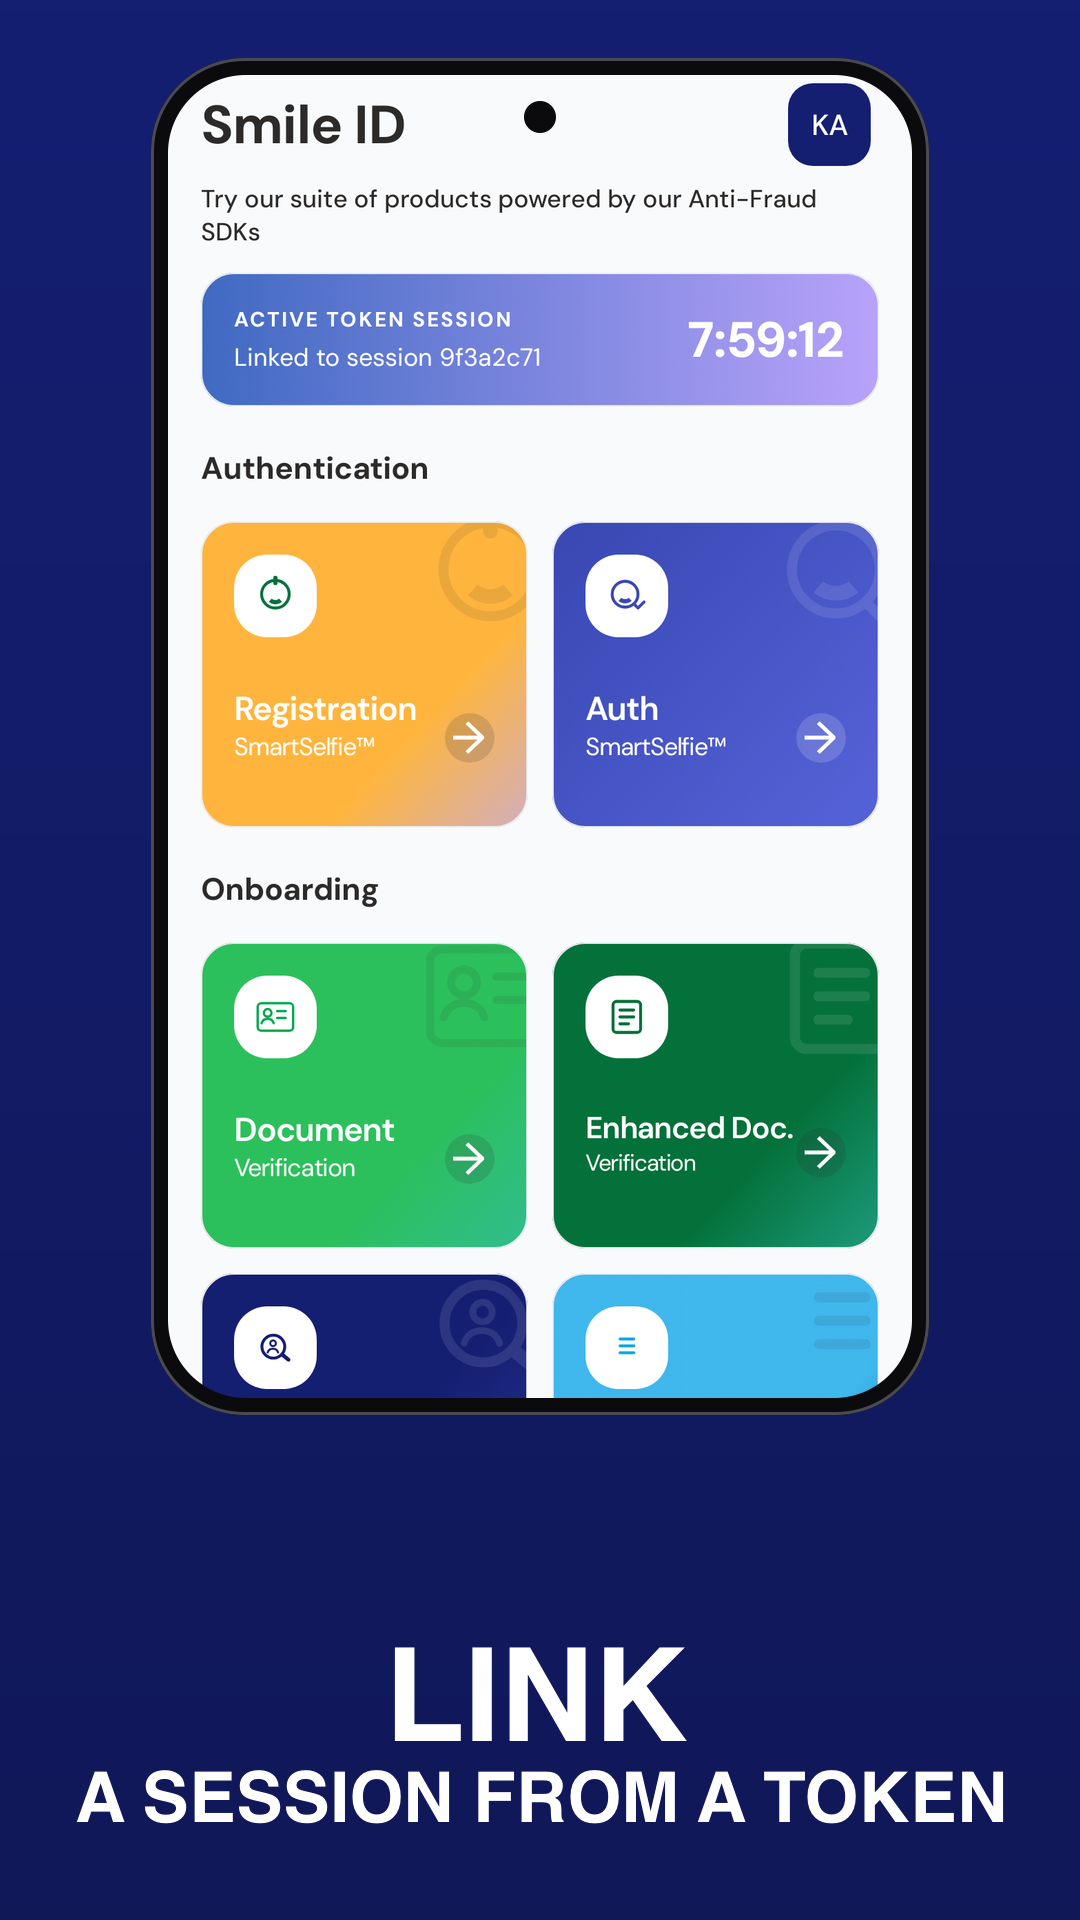
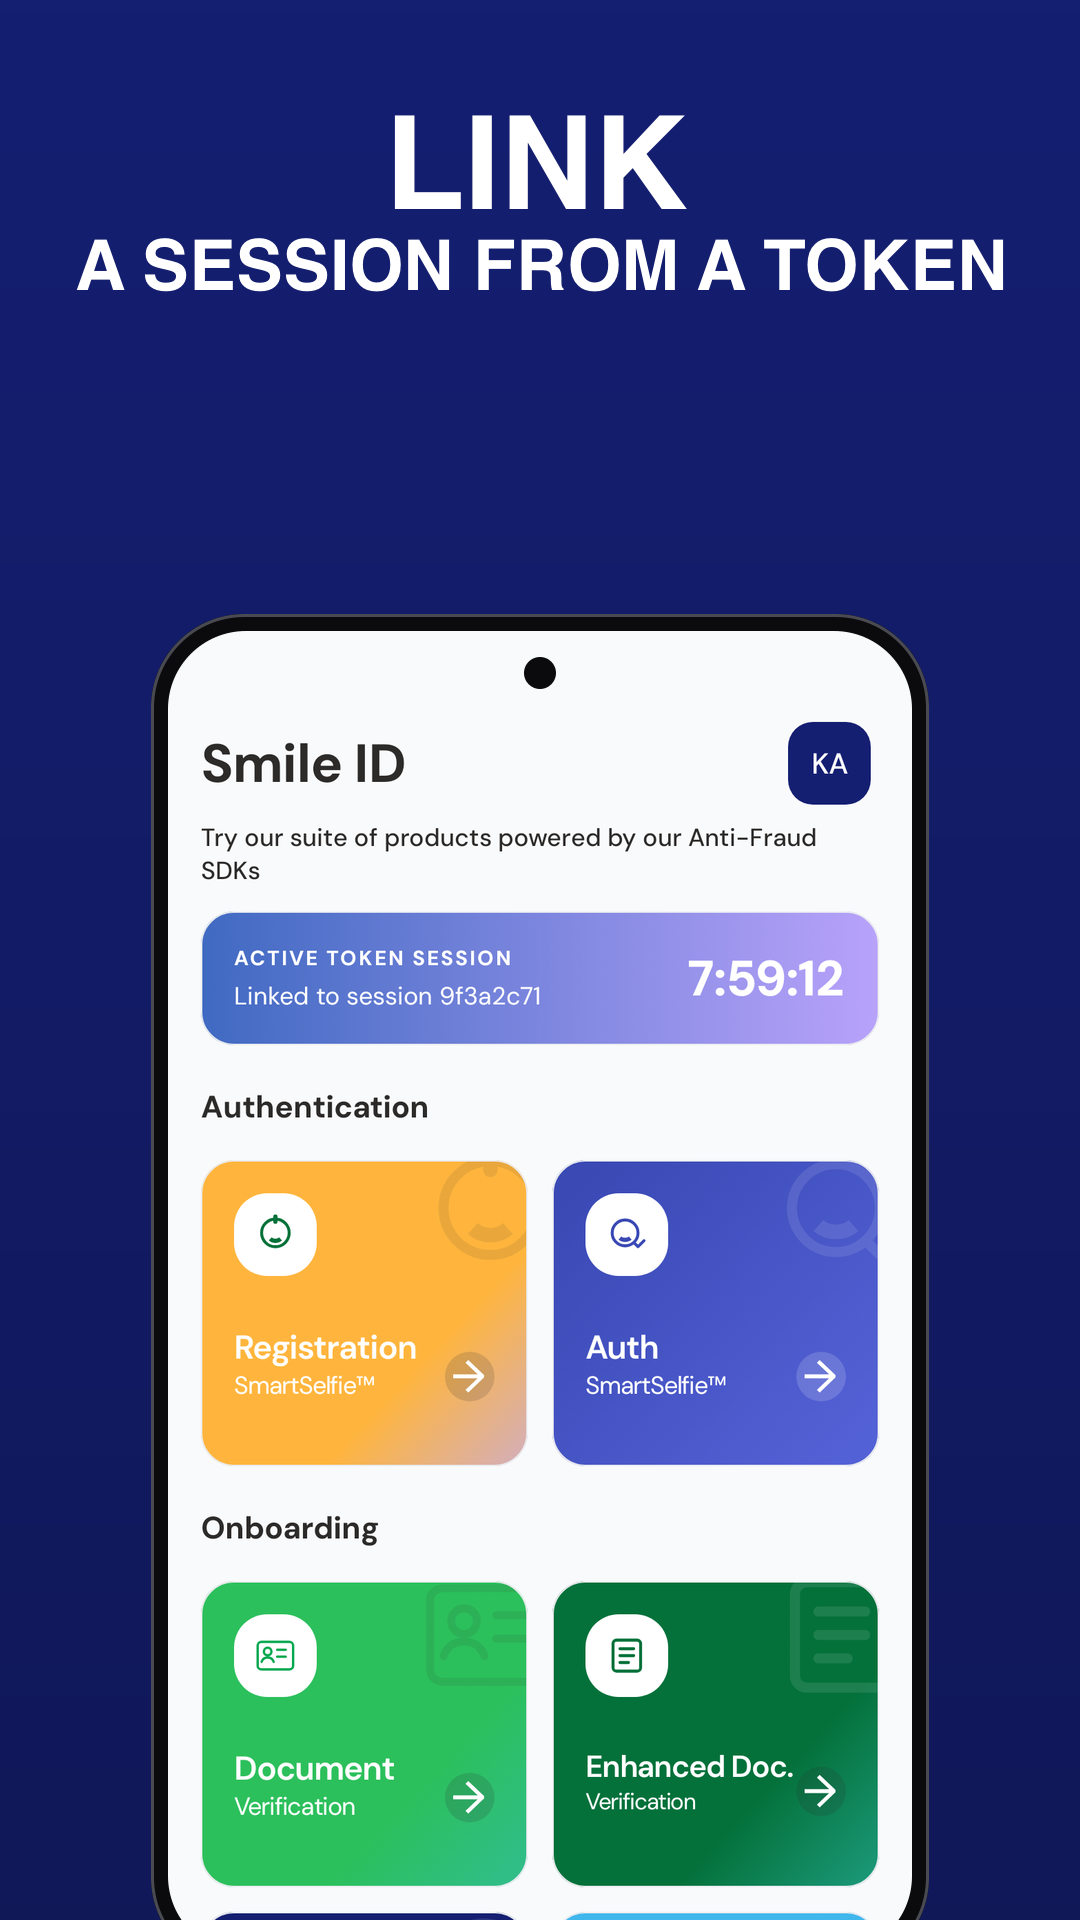
fix: clear the device cutout and give every store panel the same frame

diff --git a/android/sample-ui/src/test/kotlin/com/usesmileid/sampleapps/ui/storeart/StoreArtTest.kt b/android/sample-ui/src/test/kotlin/com/usesmileid/sampleapps/ui/storeart/StoreArtTest.kt
@@ -3,9 +3,11 @@ package com.usesmileid.sampleapps.ui.storeart
 import androidx.compose.foundation.background
 import androidx.compose.foundation.layout.Box
 import androidx.compose.foundation.layout.fillMaxSize
+import androidx.compose.foundation.layout.padding
 import androidx.compose.runtime.Composable
 import androidx.compose.ui.Modifier
 import androidx.compose.ui.platform.testTag
+import androidx.compose.ui.unit.dp
 import androidx.compose.ui.test.ExperimentalTestApi
 import androidx.compose.ui.test.onNodeWithTag
 import androidx.compose.ui.test.v2.runComposeUiTest
@@ -109,7 +111,8 @@ class StoreArtTest {
                     modifier = Modifier
                         .testTag(PANEL)
                         .fillMaxSize()
-                        .background(UseSmileIDSampleTheme.colors.background),
+                        .background(UseSmileIDSampleTheme.colors.background)
+                        .padding(top = STATUS_BAR_INSET),
                 ) {
                     content()
                 }
@@ -125,6 +128,9 @@ class StoreArtTest {
         const val FIXED_NOW = 1_784_202_612_000L
         val JOBS = UseSmileIDSampleJobStore.fixtures(FIXED_NOW)
         val PRODUCTS = UseSmileIDSampleProductsState(initials = "KA")
+
+        /** The device frame's punch-hole ends 32dp down and its corners eat 20dp; content clears both. */
+        val STATUS_BAR_INSET = 40.dp
     }
 }
 

diff --git a/docs/plan/play-release-android.md b/docs/plan/play-release-android.md
@@ -120,27 +120,6 @@ to confirm it is on the right screen *before* capturing, which is the contract b
 decide *which* states photograph well is exploration, and its screenshots must never become the
 committed artefact. That is the same boundary the device-verify guidance already draws.
 
-### 2.6 What building the pipeline changed
-
-Three corrections, all found by running it rather than by reading:
-
-- **Gradle Managed Devices cannot host the camera capture.** GMD starts and stops its emulator around a
-  Gradle *test task*, and Maestro is not one, so a GMD block would declare an image nothing uses. The
-  image is pinned in the flow's header instead — a Pixel-class AVD on API 34, at 1080x1920 so the frame
-  needs no rescaling next to the five rendered panels.
-- **The capture flow lives in `android/maestro/store/`, not beside the suite.** Folder runs are
-  non-recursive, which is how `subflows/` stays out of the suite; a top-level `store-shots.yaml` would
-  have joined every per-PR device run, needing a camera and writing a file on each one.
-- **The capture screen still has no `si_*` id**, so the landmark that proves the preview is up before
-  anything is written is the SDK's own shipped button text, "Start Capture". The assertions run before
-  the capture, never on it.
-
-**One naming trap, recorded so nobody "fixes" it.** `UseSmileIDSampleProduct` carries two names for the
-first product: `label` is "SmartSelfie Enrollment", used in the verifications list and details, while
-`cardTitle` is "Registration", a short form for the products card's narrow text column. Both therefore
-appear in the store panels. The listing follows `label`, per §5's ruling. They are not in conflict and
-neither should be changed to match the other.
-
 ### 2.4 PII discipline, because store art is published
 
 A published frame must never carry a real name, ID number, partner id or token. The sandbox test
@@ -182,6 +161,46 @@ production half. Translation lives in the agent by design. There is no Play Cons
 publishing is a solved, non-interactive problem and `r0adkll/upload-google-play` already does it in v11
 (§3). The Figma MCP is available if the feature graphic wants composing from the design system rather
 than from a screenshot. Beyond that, adding tools would add moving parts without removing work.
+
+### 2.6 Two things only a review of the output caught
+
+Both were invisible in the raw frames and obvious in the finished panels, which is the argument for
+committing the rendered set rather than only the frames.
+
+**A frame is not a screenshot: it needs a status bar.** The panels render the app edge to edge from
+y=0, but the device frame storeshots draws has a punch-hole and rounded corners over that area. The
+app bar landed underneath both — the camera cutout sat between "Verifications" and "Select", and
+beside the "Smile ID" title. Measured against a solid probe rendered through the same frame: the
+screen is drawn at 0.689 scale, the corners eat the top ~61px of the source and the punch-hole spans
+source y 70–96. `StoreArtTest` therefore insets its content by **40dp**, which clears both, and the
+band reads as a status bar. The check is that the top 120px of every frame is a single colour.
+
+**Mixing layout variants made the set look like different devices.** The plan suggested alternating
+`text-top`, `text-bottom` and `tilted` so six panels would not read as one template repeated. In the
+finished strip that instead put the phone at a different height and size in every panel, which reads
+as inconsistency rather than variety. All panels now use `text-top`, so the device sits at y=201
+throughout. Variety comes from the headlines and the screens, which is enough.
+
+### 2.7 What building the pipeline changed
+
+Three corrections, all found by running it rather than by reading:
+
+- **Gradle Managed Devices cannot host the camera capture.** GMD starts and stops its emulator around a
+  Gradle *test task*, and Maestro is not one, so a GMD block would declare an image nothing uses. The
+  image is pinned in the flow's header instead — a Pixel-class AVD on API 34, at 1080x1920 so the frame
+  needs no rescaling next to the five rendered panels.
+- **The capture flow lives in `android/maestro/store/`, not beside the suite.** Folder runs are
+  non-recursive, which is how `subflows/` stays out of the suite; a top-level `store-shots.yaml` would
+  have joined every per-PR device run, needing a camera and writing a file on each one.
+- **The capture screen still has no `si_*` id**, so the landmark that proves the preview is up before
+  anything is written is the SDK's own shipped button text, "Start Capture". The assertions run before
+  the capture, never on it.
+
+**One naming trap, recorded so nobody "fixes" it.** `UseSmileIDSampleProduct` carries two names for the
+first product: `label` is "SmartSelfie Enrollment", used in the verifications list and details, while
+`cardTitle` is "Registration", a short form for the products card's narrow text column. Both therefore
+appear in the store panels. The listing follows `label`, per §5's ruling. They are not in conflict and
+neither should be changed to match the other.
 
 ## 3. Signing — reuse the v11 upload key
 
@@ -460,7 +479,7 @@ Simulate affordance is present under release configuration, failing the build ra
 | REL-A6 | Draft the copy from §5's sources, counted against every limit | **DONE 2026-08-28** — counted by a test, not by hand | Derived from `docs-v3`, not written fresh |
 | REL-A7 | Hand-written release notes; drop v11's git-log generation step | **DONE 2026-08-28** — generation step dropped, not adapted | Fixes the defect rather than porting it |
 | REL-A8 | Store-art Gradle task: Roborazzi at store device specs, own output dir, own staleness input | **DONE 2026-08-28** — `StoreArtTest`, own directory and own staleness input | §2.1. Must not share a directory with goldens |
-| REL-A9 | `android/maestro/store-shots.yaml` for the camera panel only, on a Gradle Managed Device | **FLOW READY 2026-08-28** — five panels rendered without it; the frame needs a device; §2.6 | §2.2. One frame, not six |
+| REL-A9 | `android/maestro/store-shots.yaml` for the camera panel only, on a Gradle Managed Device | **FLOW READY 2026-08-28** — five panels rendered without it; the frame needs a device; §2.7 | §2.2. One frame, not six |
 | REL-A10 | Fixture-only capture data: test identities, simulated token, `seedJobs` | **DONE 2026-08-28** — verified: the fixtures carry no names at all | §2.4. Safe to publish and safe in CI |
 | REL-A11 | `storeshots` render script: presets, headlines, committed art | **DONE 2026-08-28** — `android/play/render-store-art.sh` | CLI, not the MCP server |
 | REL-A12 | Transcribe v11's data-safety answers; commit §6.1's comparison as the reason | **DONE 2026-08-28** — `docs/play-data-safety.md` | §6.1. No re-derivation |
